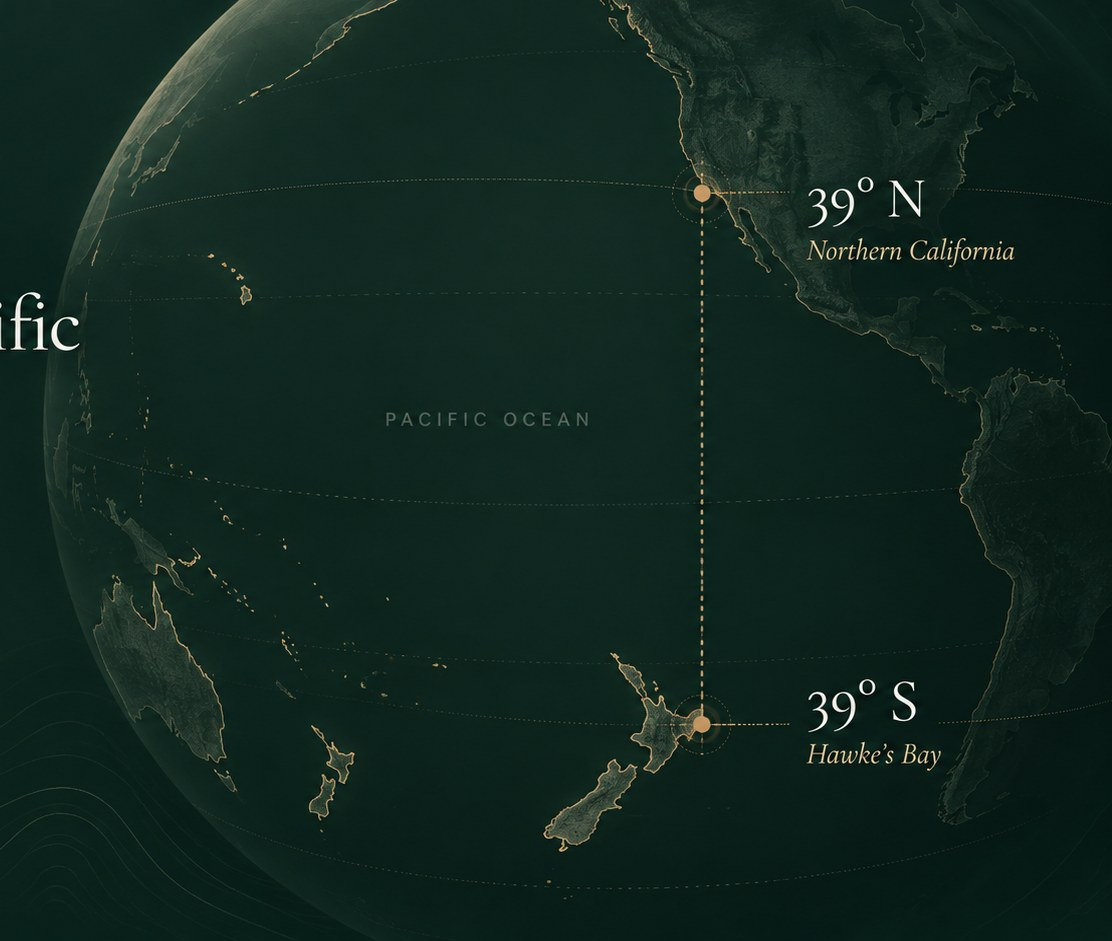
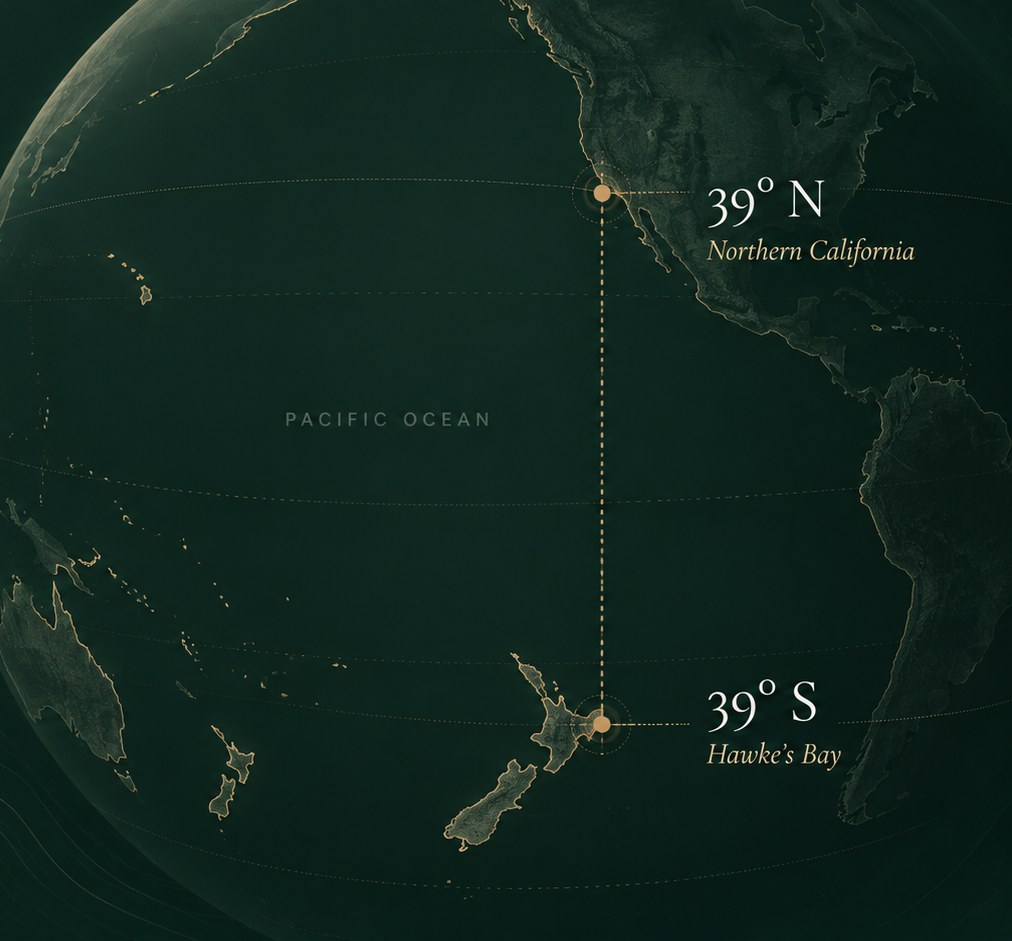
Cultivation: the globe crop clears its own headline, all four edges fade

diff --git a/cultivation.html b/cultivation.html
@@ -1505,9 +1505,9 @@ html.no-video .hero-scroll{opacity:1;}
 .cl-par .cl-p{color:rgba(243,241,235,0.72);}
 .cl-question{margin:var(--s5) 0 0;font-family:var(--font-h);font-weight:300;font-size:clamp(1.5rem,2.4vw,2.2rem);line-height:1.25;max-width:22ch;color:var(--starlight);}
 .cl-par{background:#0a221b;}
-.cl-globe{margin:0;position:relative;aspect-ratio:1112/941;min-height:0;
-  -webkit-mask-image:linear-gradient(to right,transparent,#000 18%),linear-gradient(to top,transparent,#000 14%);-webkit-mask-composite:source-in;
-  mask-image:linear-gradient(to right,transparent,#000 18%),linear-gradient(to top,transparent,#000 14%);mask-composite:intersect;}
+.cl-globe{margin:0;position:relative;aspect-ratio:1012/941;min-height:0;
+  -webkit-mask-image:linear-gradient(to right,transparent,#000 16%,#000 86%,transparent),linear-gradient(to bottom,transparent,#000 12%,#000 86%,transparent);-webkit-mask-composite:source-in;
+  mask-image:linear-gradient(to right,transparent,#000 16%,#000 86%,transparent),linear-gradient(to bottom,transparent,#000 12%,#000 86%,transparent);mask-composite:intersect;}
 .cl-globe img{width:100%;height:100%;object-fit:cover;display:block;}
 
 /* 6 · ENVIRONMENTS - three portrait photo plates in a row on the canvas */
@@ -1755,7 +1755,7 @@ html.no-video .hero-scroll{opacity:1;}
         <p class="cl-question reveal d3">What can exceptional cannabis expression look like in Hawke’s Bay?</p>
       </div>
       <figure class="cl-globe reveal d1">
-        <img src="assets/aho-39th-parallel-globe.jpg" alt="A globe of the Pacific in deep green and gold: Northern California marked at 39° north, Hawke’s Bay at 39° south, one dashed line of latitude joining them across the ocean" width="1112" height="941" loading="lazy">
+        <img src="assets/aho-39th-parallel-globe.jpg" alt="A globe of the Pacific in deep green and gold: Northern California marked at 39° north, Hawke’s Bay at 39° south, one dashed line of latitude joining them across the ocean" width="1012" height="941" loading="lazy">
       </figure>
     </div>
   </section>
